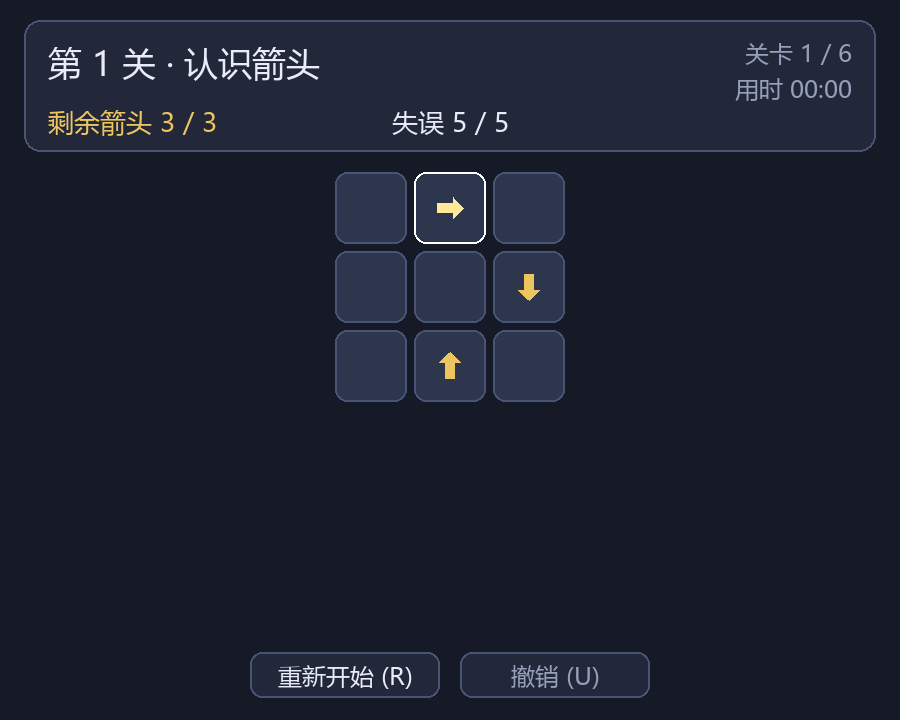
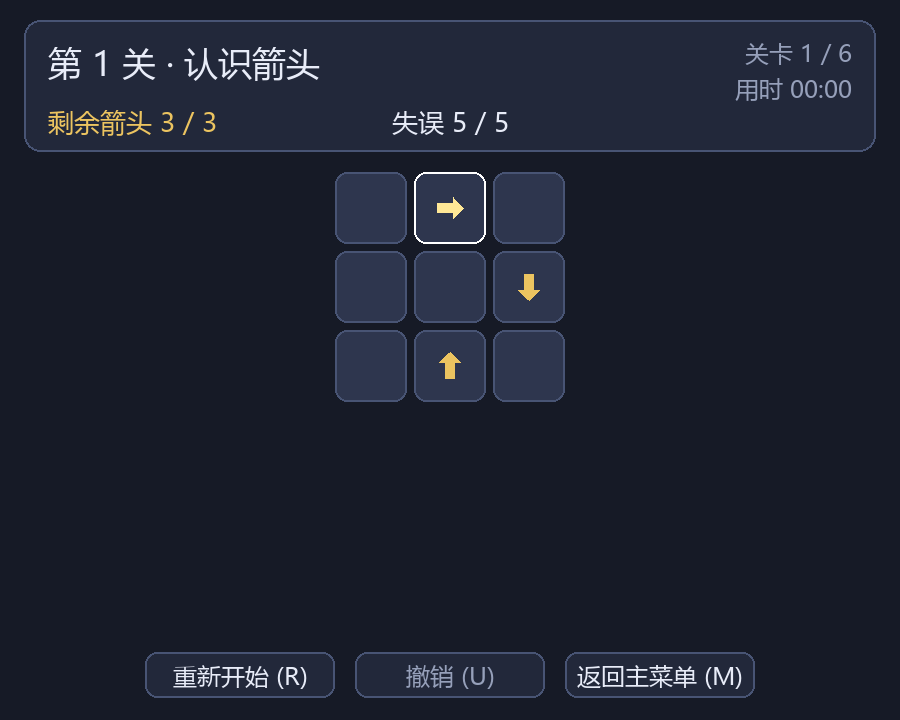
feat: 游戏界面新增「返回主菜单」按钮
- 每一关（含自定义关卡）的底部按钮行改为三个居中按钮：重新开始 / 撤销 / 返回主菜单
- 点击或按 M 都会中断本局回到主菜单：进度清零，自定义关卡仍留在选关列表里
- 动画播放期间与其他按钮一样锁定输入，避免动画与流程打架
- 新增 5 条界面用例：每关都暴露该按钮、点击后进度清零、自定义关卡同样生效、
  M 键等价、动画期间不响应；用例总数 133 → 138

Changed region(s): [[0.1556, 0.8861, 0.84, 0.9778]]

diff --git a/tests/test_ui_smoke.py b/tests/test_ui_smoke.py
@@ -254,6 +254,64 @@ class UiSmokeTest(unittest.TestCase):
         self.assertIs(self.game.session.phase, Phase.PLAYING)
         self.assertEqual(self.game.session.level_number, index + 1)
 
+    # ---------- 返回主菜单 ----------
+
+    def test_every_level_screen_has_a_back_to_menu_button(self) -> None:
+        """内置关卡与自定义关卡的界面都带「返回主菜单」。"""
+        session = self.game.session
+        for index in range(session.level_count):
+            with self.subTest(level=index + 1):
+                session.start_at_level(index)
+                self.assertIn(self.screen.btn_bottom_menu, self.screen.active_buttons())
+        self.open_custom_panel()
+        start = self.game.screens.start_screen
+        self.click(start.btn_generate.rect.center)
+        self.assertIn(self.screen.btn_bottom_menu, self.screen.active_buttons())
+
+    def test_bottom_menu_button_aborts_the_level(self) -> None:
+        self.start_game()
+        session = self.game.session
+        session.click_cell(*self.find(True))
+        self.screen.animations.clear()
+        self.assertNotEqual(session.board.to_grid(), list(session.levels[0].grid))
+        self.click(self.screen.btn_bottom_menu.rect.center)
+        self.assertIs(session.phase, Phase.START)
+        self.assertEqual(session.level_number, 1)
+        self.assertEqual(session.cleared_levels, 0)
+        self.assertEqual(session.total_clicks, 0)
+        self.assertEqual(session.arrows_left, session.arrows_total)
+        self.assertEqual(session.board.to_grid(), list(session.levels[0].grid))
+        self.game.draw()  # 回到主菜单之后要能正常绘制
+
+    def test_bottom_menu_button_aborts_a_custom_level(self) -> None:
+        self.open_custom_panel()
+        start = self.game.screens.start_screen
+        self.game.session.custom_setup.set_value(FIELD_ARROWS, 5)
+        self.click(start.btn_generate.rect.center)
+        session = self.game.session
+        self.assertTrue(session.is_custom_level)
+        self.click(self.screen.btn_bottom_menu.rect.center)
+        self.assertIs(session.phase, Phase.START)
+        self.assertEqual(session.level_number, 1)
+        self.assertTrue(session.has_custom_level, "自定义关卡应该还留在选关列表里")
+
+    def test_m_key_returns_to_the_menu(self) -> None:
+        self.start_game()
+        self.press(pygame.K_m)
+        self.assertIs(self.game.session.phase, Phase.START)
+        self.assertEqual(self.game.session.level_number, 1)
+
+    def test_bottom_menu_is_locked_during_an_animation(self) -> None:
+        """动画期间输入被锁定，返回主菜单也不例外。"""
+        self.start_game()
+        self.screen.click_cell(*self.find(True))
+        self.assertTrue(self.screen.animations.busy)
+        self.click(self.screen.btn_bottom_menu.rect.center)
+        self.assertIs(self.game.session.phase, Phase.PLAYING)
+        self.screen.animations.clear()
+        self.click(self.screen.btn_bottom_menu.rect.center)
+        self.assertIs(self.game.session.phase, Phase.START)
+
     def test_survives_restarting_pygame(self) -> None:
         """pygame 重新初始化后仍然能正常绘制。
 

diff --git a/game/ui/screens.py b/game/ui/screens.py
@@ -21,6 +21,10 @@ from .widgets import Button
 
 HUD_RECT = pygame.Rect(24, 20, config.WINDOW_WIDTH - 48, 132)
 BUTTON_ROW_TOP = 652
+BOTTOM_BUTTON_WIDTH = 190
+BOTTOM_BUTTON_GAP = 20
+BOTTOM_BUTTON_HEIGHT = 46
+BOTTOM_BUTTON_COUNT = 3
 OVERLAY_RECT = pygame.Rect(250, 170, 400, 380)
 FINAL_RECT = pygame.Rect(150, 120, 600, 480)
 LEVEL_SELECT_RECT = pygame.Rect(140, 72, 620, 584)
@@ -43,6 +47,13 @@ DIFFICULTY_GAP = 18
 DIFFICULTY_BUTTON_HEIGHT = 48
 CUSTOM_GENERATE_TOP = 404
 CUSTOM_BACK_TOP = 462
+
+
+def bottom_button_rect(index: int) -> pygame.Rect:
+    """游戏界面底部按钮行里第 index 个按钮（整行水平居中）。"""
+    total = BOTTOM_BUTTON_COUNT * BOTTOM_BUTTON_WIDTH + (BOTTOM_BUTTON_COUNT - 1) * BOTTOM_BUTTON_GAP
+    left = (config.WINDOW_WIDTH - total) // 2 + index * (BOTTOM_BUTTON_WIDTH + BOTTOM_BUTTON_GAP)
+    return pygame.Rect(left, BUTTON_ROW_TOP, BOTTOM_BUTTON_WIDTH, BOTTOM_BUTTON_HEIGHT)
 
 
 class Screen:
@@ -514,11 +525,11 @@ class GameScreen(Screen):
     def __init__(self, session: Session, manager: "ScreenManager") -> None:
         super().__init__(session, manager)
         self.animations: AnimationManager = manager.animations
-        center_x = config.WINDOW_WIDTH // 2
-        self.btn_restart = Button(
-            "重新开始 (R)", (center_x - 200, BUTTON_ROW_TOP, 190, 46), manager.restart_level
+        self.btn_restart = Button("重新开始 (R)", bottom_button_rect(0), manager.restart_level)
+        self.btn_undo = Button("撤销 (U)", bottom_button_rect(1), manager.undo)
+        self.btn_bottom_menu = Button(
+            "返回主菜单 (M)", bottom_button_rect(2), manager.back_to_menu
         )
-        self.btn_undo = Button("撤销 (U)", (center_x + 10, BUTTON_ROW_TOP, 190, 46), manager.undo)
         panel = OVERLAY_RECT
         self.btn_next = Button(
             "下一关 (Enter)",
@@ -555,7 +566,7 @@ class GameScreen(Screen):
     def active_buttons(self) -> list[Button]:
         phase = self.session.phase
         if phase is Phase.PLAYING:
-            return [self.btn_restart, self.btn_undo]
+            return [self.btn_restart, self.btn_undo, self.btn_bottom_menu]
         if phase is Phase.LEVEL_CLEAR:
             return [self.btn_next, self.btn_menu]
         if phase is Phase.FAILED:
@@ -586,6 +597,14 @@ class GameScreen(Screen):
             return True
         if key == pygame.K_u and phase is Phase.PLAYING:
             self.manager.undo()
+            return True
+        if key == pygame.K_m and phase in (
+            Phase.PLAYING,
+            Phase.LEVEL_CLEAR,
+            Phase.FAILED,
+            Phase.ALL_CLEAR,
+        ):
+            self.manager.back_to_menu()
             return True
         if key in (pygame.K_RETURN, pygame.K_KP_ENTER, pygame.K_SPACE):
             if phase is Phase.LEVEL_CLEAR:
@@ -632,6 +651,7 @@ class GameScreen(Screen):
             if phase is Phase.PLAYING:
                 self.btn_restart.draw(surface)
                 self.btn_undo.draw(surface)
+                self.btn_bottom_menu.draw(surface)
             return
         if phase is Phase.LEVEL_CLEAR:
             self.draw_level_clear(surface)
